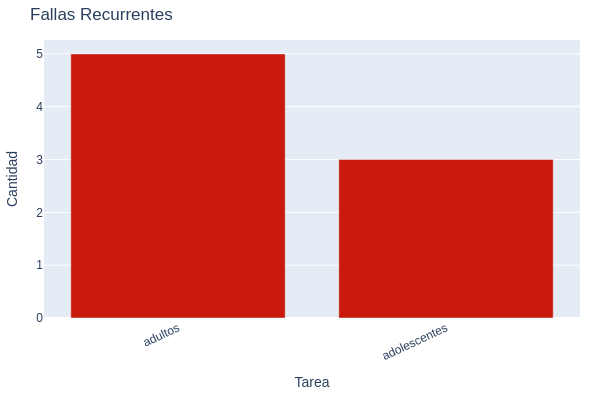
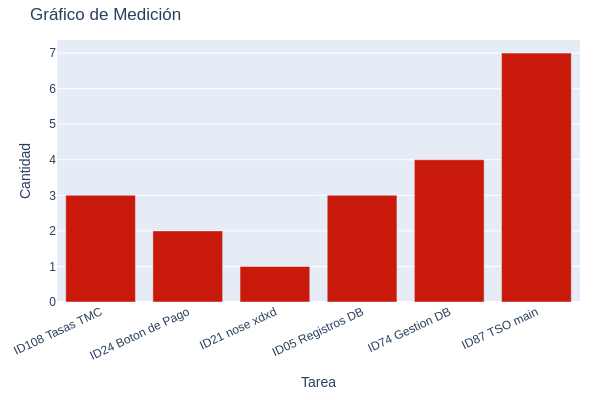
Se adiciona caracteristicas del modulo para graficos
Se adiciona caracteristica para personalizar colores, titulo de cada grafico y mostrar el valor numero de cantidad en el grafico de torta para distinción

diff --git a/graficos/graficos.py b/graficos/graficos.py
@@ -6,55 +6,96 @@ import base64
 import os
 
 def codificar_base64(ruta):
+
     with open(ruta, 'rb') as imagen:
         return base64.b64encode(imagen.read()).decode('utf-8')
 
+def procesar_datos(datos):
+
+    etiquetas = []
+    cantidades = []
+    colores = []
+
+    for etiqueta, info in datos.items():
+        if isinstance(info, dict):
+            cantidad = info.get('cantidad', 0)
+            color = info.get('color')
+        else:
+            cantidad = info
+            color = None
+
+        etiquetas.append(etiqueta)
+        cantidades.append(cantidad)
+        colores.append(color)
+
+    return etiquetas, cantidades, colores
+
 def main():
+
     modulo = AnsibleModule(
         argument_spec=dict(
-            exitos=dict(type='int', required=True),
-            fallos=dict(type='int', required=True),
+            distribucion=dict(type='dict', required=True),
+            titulo_torta=dict(type='str', required=False, default='Gráfico de Distribución'),
             recurrencias=dict(type='dict', required=False, default={}),
+            titulo_barras=dict(type='str', required=False, default='Gráfico de Medición'),
             carpeta_salida=dict(type='str', required=False, default='.'),
             incluir_base64=dict(type='bool', required=False, default=False),
         ),
         supports_check_mode=False
     )
 
-    exitos = modulo.params['exitos']
-    fallos = modulo.params['fallos']
+    distribucion = modulo.params['distribucion']
+    titulo_torta = modulo.params['titulo_torta']
     recurrencias = modulo.params['recurrencias']
+    titulo_barras = modulo.params['titulo_barras']
     carpeta_salida = modulo.params['carpeta_salida']
     incluir_base64 = modulo.params['incluir_base64']
 
     try:
+        etiquetas_torta, cantidades_torta, colores_torta = procesar_datos(distribucion)
+        etiquetas_con_valores = [f"{etiqueta} ({cantidad})" for etiqueta, cantidad in zip(etiquetas_torta, cantidades_torta)]
+
         datos_pie = {
-            'Etiqueta': ['Éxitos', 'Fallos'],
-            'Cantidad': [exitos, fallos]
+            'Etiqueta': etiquetas_con_valores,
+            'Cantidad': cantidades_torta
         }
 
         figura_pie = px.pie(
-            datos_pie, names='Etiqueta', values='Cantidad',
-            title='Éxito vs Fallos',
-            color='Etiqueta',
-            color_discrete_map={'Éxitos': '#27AE60', 'Fallos': '#EE0000'}
+            datos_pie,
+            names='Etiqueta',
+            values='Cantidad',
+            title=titulo_torta,
         )
+
+        if any(colores_torta):
+            color_map = {label: color for label, color in zip(etiquetas_con_valores, colores_torta) if color}
+            figura_pie.update_traces(marker=dict(colors=[color_map.get(lbl) for lbl in etiquetas_con_valores]))
+
         figura_pie.update_traces(textposition='inside', textinfo='percent+label')
         ruta_pie = os.path.join(carpeta_salida, "grafico_torta.png")
         figura_pie.write_image(ruta_pie, width=400, height=400)
 
-        etiquetas = list(recurrencias.keys())
-        cantidades = list(recurrencias.values())
+        if recurrencias:
+            etiquetas_barras, cantidades_barras, colores_barras = procesar_datos(recurrencias)
+            figura_barras = px.bar(
+                x=etiquetas_barras,
+                y=cantidades_barras,
+                title=titulo_barras,
+                labels={'x': 'Tarea', 'y': 'Cantidad'}
+            )
 
-        figura_barras = px.bar(
-            x=etiquetas, y=cantidades,
-            title='Fallas Recurrentes',
-            labels={'x': 'Tarea', 'y': 'Cantidad'},
-            color_discrete_sequence=['#C9190B']
-        )
-        figura_barras.update_layout(xaxis_tickangle=-25, margin=dict(l=20, r=20, t=40, b=80))
-        ruta_barras = os.path.join(carpeta_salida, "grafico_barras.png")
-        figura_barras.write_image(ruta_barras, width=600, height=400)
+            if any(colores_barras):
+                figura_barras.update_traces(marker_color=[
+                    color if color else '#C9190B' for color in colores_barras
+                ])
+            else:
+                figura_barras.update_traces(marker_color='#C9190B')
+
+            figura_barras.update_layout(xaxis_tickangle=-25, margin=dict(l=20, r=20, t=40, b=80))
+            ruta_barras = os.path.join(carpeta_salida, "grafico_barras.png")
+            figura_barras.write_image(ruta_barras, width=600, height=400)
+        else:
+            ruta_barras = None
 
         resultado = {
             'changed': True,
@@ -65,7 +106,8 @@ def main():
 
         if incluir_base64:
             resultado['grafico_torta_base64'] = codificar_base64(ruta_pie)
-            resultado['grafico_barras_base64'] = codificar_base64(ruta_barras)
+            if ruta_barras:
+                resultado['grafico_barras_base64'] = codificar_base64(ruta_barras)
 
         modulo.exit_json(**resultado)
 

diff --git a/graficos/README.md b/graficos/README.md
@@ -49,34 +49,45 @@ $ ln -s /opt/chrome-linux/chrome /usr/local/bin/chrome
 
 | Parámetro              | Tipo   | Requerido | Descripción |
 |---------------------|--------|-----------|-------------|
-| `exitos`            | int    | Sí        | Número total de tareas exitosas. |
-| `fallos`            | int    | Sí        | Número total de tareas fallidas. |
-| `recurrencias`      | dict   | No        | Diccionario con (clave = nombre de tarea, valor = cantidad). |
+| `distribucion`            | dict    | Sí        | Diccionario que representa la distribución para el gráfico de torta. Cada clave representa una categoría, y su valor puede ser un número o un diccionario con cantidad y opcionalmente color. |
+| `titulo_torta`            | str    | No        | Título para el gráfico de torta. Valor por defecto: "Gráfico de Distribución". |
+| `recurrencias`      | dict   | No        | 	Diccionario con datos para el gráfico de barras (clave = nombre, valor = cantidad o diccionario con cantidad y color). |
+| `titulo_barras`      | str   | No        | Título para el gráfico de barras. Valor por defecto: "Gráfico de Medición". |
 | `carpeta_salida`    | str    | No        | Carpeta donde se guardarán los gráficos generados. Por defecto es el directorio actual (`.`). |
 | `incluir_base64`    | bool   | No        | Si se establece en `true`, se incluirán las versiones codificadas en Base64 de los gráficos en la salida del módulo. |
 
 ## Uso 
 
 ```yaml
-- name: Generar gráficos con valores hardcodeados
+- name: Generar gráficos personalizados (colores y titulos personalizados) con base64
   graficos:
-    exitos: 80
-    fallos: 20
+    distribucion:
+      exitos:
+        cantidad: 80
+        color: '#28a745'
+      fallos:
+        cantidad: 20
+        color: '#dc3545'
     recurrencias:
-      adultos: 5
-      adolescentes: 3
+      adultos:
+        cantidad: 5
+        color: '#007bff'
+      adolescentes:
+        cantidad: 3
+    titulo_torta: "Resumen de Tareas"
+    titulo_barras: "Distribución por Grupo"
     carpeta_salida: "/tmp"
     incluir_base64: true
 
-- name: Generar gráficos con variables y sin base64
+- name: Generar gráficos sin tanta personalización y sin base64
   graficos:
-    exitos: "{{ tasa_exito }}"
-    fallos: "{{ tasa_fallo }}"
+    distribucion: "{{ metricas }}"
     recurrencias: "{{ asistentes }}"
     carpeta_salida: "/tmp"
   vars:
-    tasa_exito: 80
-    tasa_fallo: 20
+    metricas:
+        tasa_exito: 80
+        tasa_fallo: 20
     asistentes:
         adultos: 5
         adolescentes: 3 
